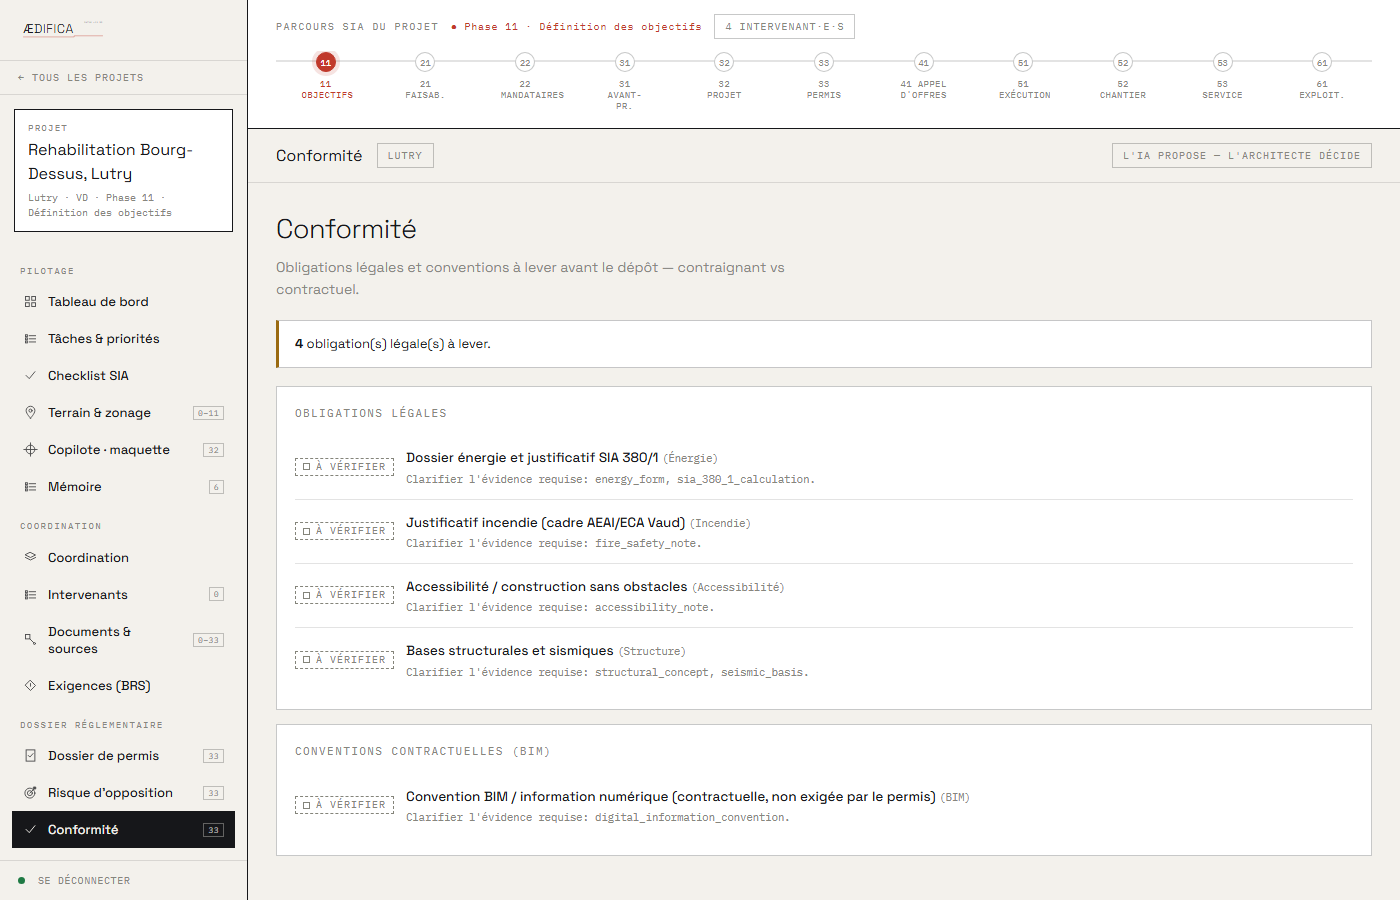
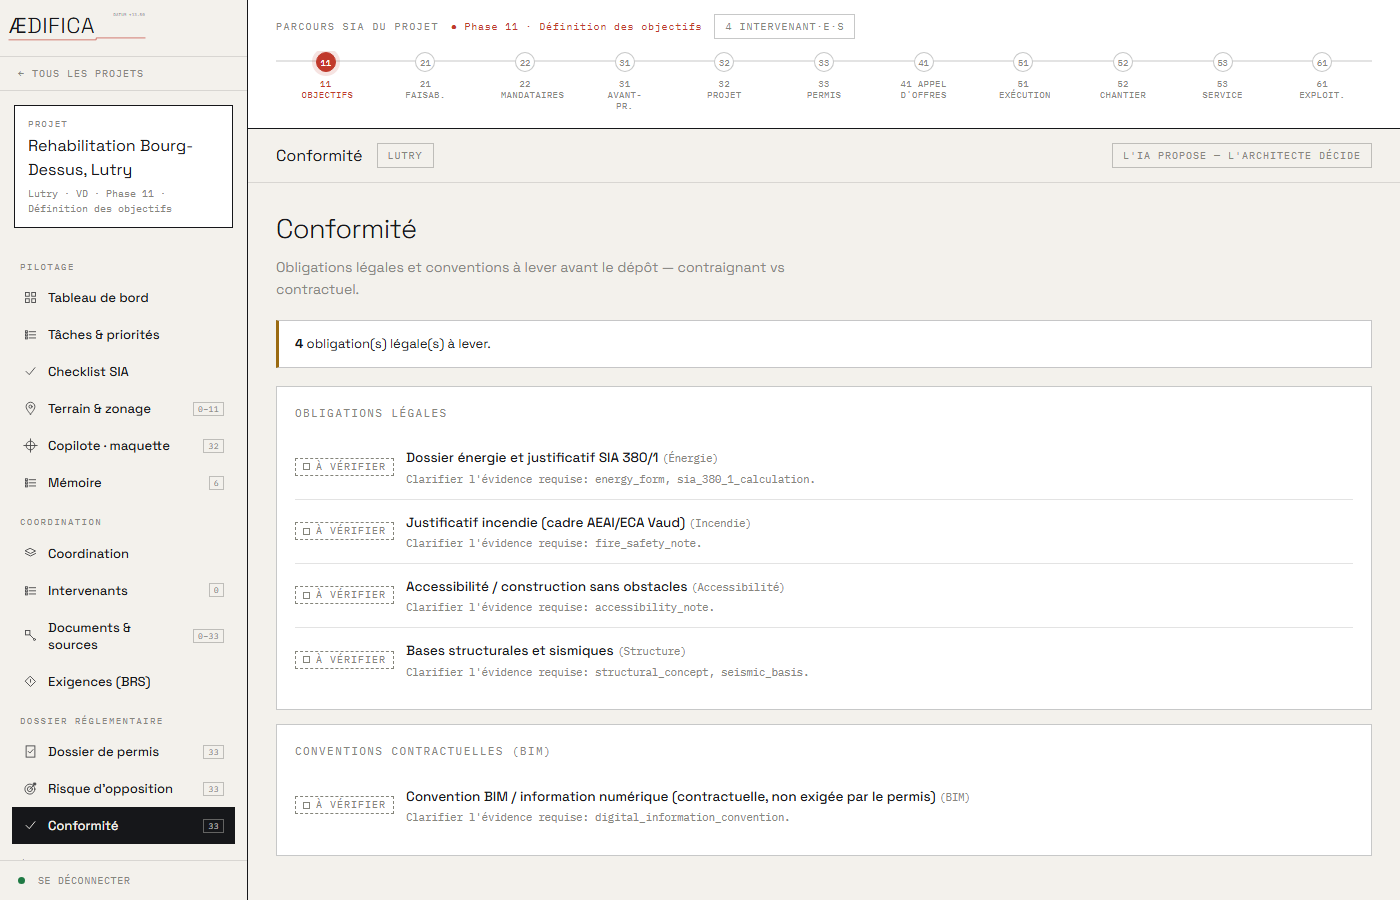
fix(w11-p0): scale up the wordmark — it was rendering at half the right size
Owner: "the wordmarks are much too small". Sizes were stuck at 28–44px height,
which made the official ÆDIFICA + DATUM stamp + red rule render at a width
~90px — readable but visually invisible.

New sizes (height-driven; the 480×150 viewBox preserves the aspect ratio):
- Workspace brand area (ws__brand sidebar): 28 → 48 (+ 4px padding y)
- Login box (the login is the brand moment): 44 → 84
- Home top bar: 32 → 56
- ExternalView header (client/mandataire scoped view): 28 → 48

diff --git a/web/app/workspace/page.tsx b/web/app/workspace/page.tsx
@@ -411,8 +411,8 @@ export default function App() {
   return (
     <div className="ws">
       <aside className="ws__side">
-        <div className="ws__brand" style={{ display: "flex", alignItems: "center" }}>
-          <Wordmark height={28} />
+        <div className="ws__brand" style={{ display: "flex", alignItems: "center", padding: "4px 0" }}>
+          <Wordmark height={48} />
         </div>
         <button className="back" onClick={() => { setActive(null); setD({}); loadAtelier(token!); }}>← Tous les projets</button>
         <div className="psw"><div className="k">Projet</div><div className="nm">{active.name}</div><div className="me">{j.commune} · {j.canton} · {phaseLabel(active.phase_code)}</div></div>
@@ -487,7 +487,7 @@ function Login({ busy, err, onRegister, onLogin, onJoin, onAcceptInvite }: { bus
   return (
     <div className="center">
       <div className="login__box">
-        <Wordmark height={44} />
+        <Wordmark height={84} />
         <span className="eyebrow">ArchiOS Suisse · l&apos;assistant de l&apos;architecte</span>
         <h2>{titles[mode]}</h2>
         {mode !== "join" && (
@@ -574,7 +574,7 @@ function Home({ projects, users, atelier, flashKey, busy, err, onOpen, onCreate,
   return (
     <div className="app">
       <div className="home__bar">
-        <Wordmark height={32} />
+        <Wordmark height={56} />
         <span className="eyebrow">ArchiOS Suisse</span>
         <span className="sp" /><button className="acct" onClick={onSignOut}>Se déconnecter</button>
       </div>
@@ -1200,7 +1200,7 @@ function ExternalView({ ext, onTick, onSignOut }: { ext: any; onTick: (id: numbe
     <div className="ws" style={{ gridTemplateColumns: "1fr" }}>
       <main className="ws__main" style={{ maxWidth: 900, margin: "0 auto", padding: 24 }}>
         <div className="vh" style={{ display: "flex", alignItems: "center", gap: 12 }}>
-          <Wordmark height={28} />
+          <Wordmark height={48} />
           <span className="grow" />
           <small className="mono">{me.user?.email}</small>
           <button className="signout" onClick={onSignOut}>Déconnexion</button>
